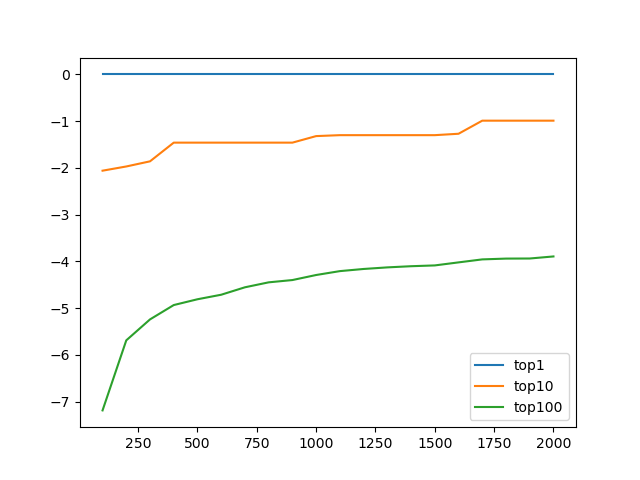
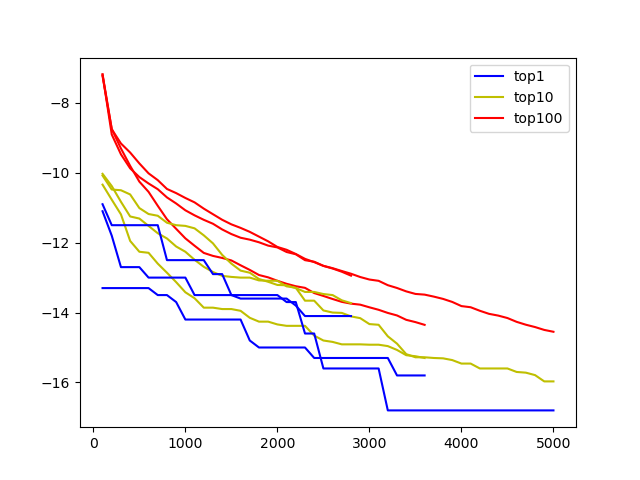
graph ga results

diff --git a/results/analysis.py b/results/analysis.py
@@ -5,44 +5,53 @@ iter2score = {}
 idx_lst = []
 
 
-# ### graph ga
-# folder = "/Users/futianfan/Downloads/spring2021/guacamol_tdc/results/graph_ga"
-# for file in os.listdir(folder): 
-# 	if file[-3:]!='pkl':
-# 		continue 
-# 	idx = int(file.split('.')[0])
-# 	idx_lst.append(idx)
-# 	full_file = os.path.join(folder, file)
-# 	assert os.path.exists(full_file)
-# 	smiles2score = pickle.load(open(full_file, 'rb'))
-# 	for smiles,score in smiles2score.items():
-# 		smiles2score[smiles] = -score 
-# 	score_lst = [score for smiles, score in smiles2score.items()]
-# 	score_lst.sort(reverse = True)
+### graph ga
+### smiles lstm
+folder = "/Users/futianfan/Downloads/spring2021/guacamol_tdc/results/graph_ga_"
+i_list = [1,2,3]
+# num_lst = [i*100 for i in range(1,51)]
+for i in i_list:
+	result_folder = folder + str(i)
+	top1, top10, top100 = [],[],[]
+	for j in range(1,51):
+		file = str(j * 100) + '.pkl' 
+		file = os.path.join(result_folder, file)
 
-# 	top1 = score_lst[0]
-# 	top10 = np.mean(score_lst[:10])
-# 	top100 = np.mean(score_lst[:100])
-# 	iter2score[idx] = (top1, top10, top100)
+		if not os.path.exists(file):
+			break 
+		## get top-100,10,1
+		smiles2score = pickle.load(open(file, 'rb'))
+		for smiles,score in smiles2score.items():
+			smiles2score[smiles] = -score  
+		score_lst = [score for smiles, score in smiles2score.items()]
+		score_lst.sort()
+		print(score_lst)
+		top1.append(score_lst[0])
+		top10.append(np.mean(score_lst[:10]))
+		top100.append(np.mean(score_lst[:100]))
 
-# 	if idx in [100,500,1000,5000]:
-# 		smiles_score_lst = [(smiles,score) for smiles, score in smiles2score.items()]
-# 		smiles_score_lst.sort(key = lambda x:x[1])
-# 		smiles_score_lst = smiles_score_lst[:100]
-# 		with open(os.path.join(folder, 'smiles_lstm_' + str(idx) + '.txt'),'w') as fout:
-# 			for smiles,score in smiles_score_lst:
-# 				fout.write(smiles + '\t' + str(score) + '\n')
+		# 100, 500, 1k, 5k 
+		if j in [1,5,10,50]:
+			smiles_score_lst = [(smiles,score) for smiles, score in smiles2score.items()]
+			smiles_score_lst.sort(key = lambda x:x[1])
+			smiles_score_lst = smiles_score_lst[:100]
+			with open('results/graph_ga_' + str(i) + '_' + str(j*100) + '.txt','w') as fout:
+				for smiles,score in smiles_score_lst:
+					fout.write(smiles + '\t' + str(score) + '\n')
+	num_lst = [i*100 for i in range(1,1+len(top1))]
+	if i==1:
+		plt.plot(num_lst, top1, color='b', label = 'top1')
+		plt.plot(num_lst, top10, color='y', label = 'top10')
+		plt.plot(num_lst, top100, color='r', label = 'top100')
+	else:
+		plt.plot(num_lst, top1, color='b', )
+		plt.plot(num_lst, top10, color='y', )
+		plt.plot(num_lst, top100, color='r', )	
 
+plt.legend()
+plt.savefig('results/graph_ga.png')
 
-
-# idx_lst.sort()
-# plt.plot(idx_lst, [iter2score[idx][0] for idx in idx_lst], label = 'top1')
-# plt.plot(idx_lst, [iter2score[idx][1] for idx in idx_lst], label = 'top10')
-# plt.plot(idx_lst, [iter2score[idx][2] for idx in idx_lst], label = 'top100')
-# plt.legend()
-# plt.savefig('results/graph_ga.png')
-# plt.cla()
-
+exit()
 
 
 
